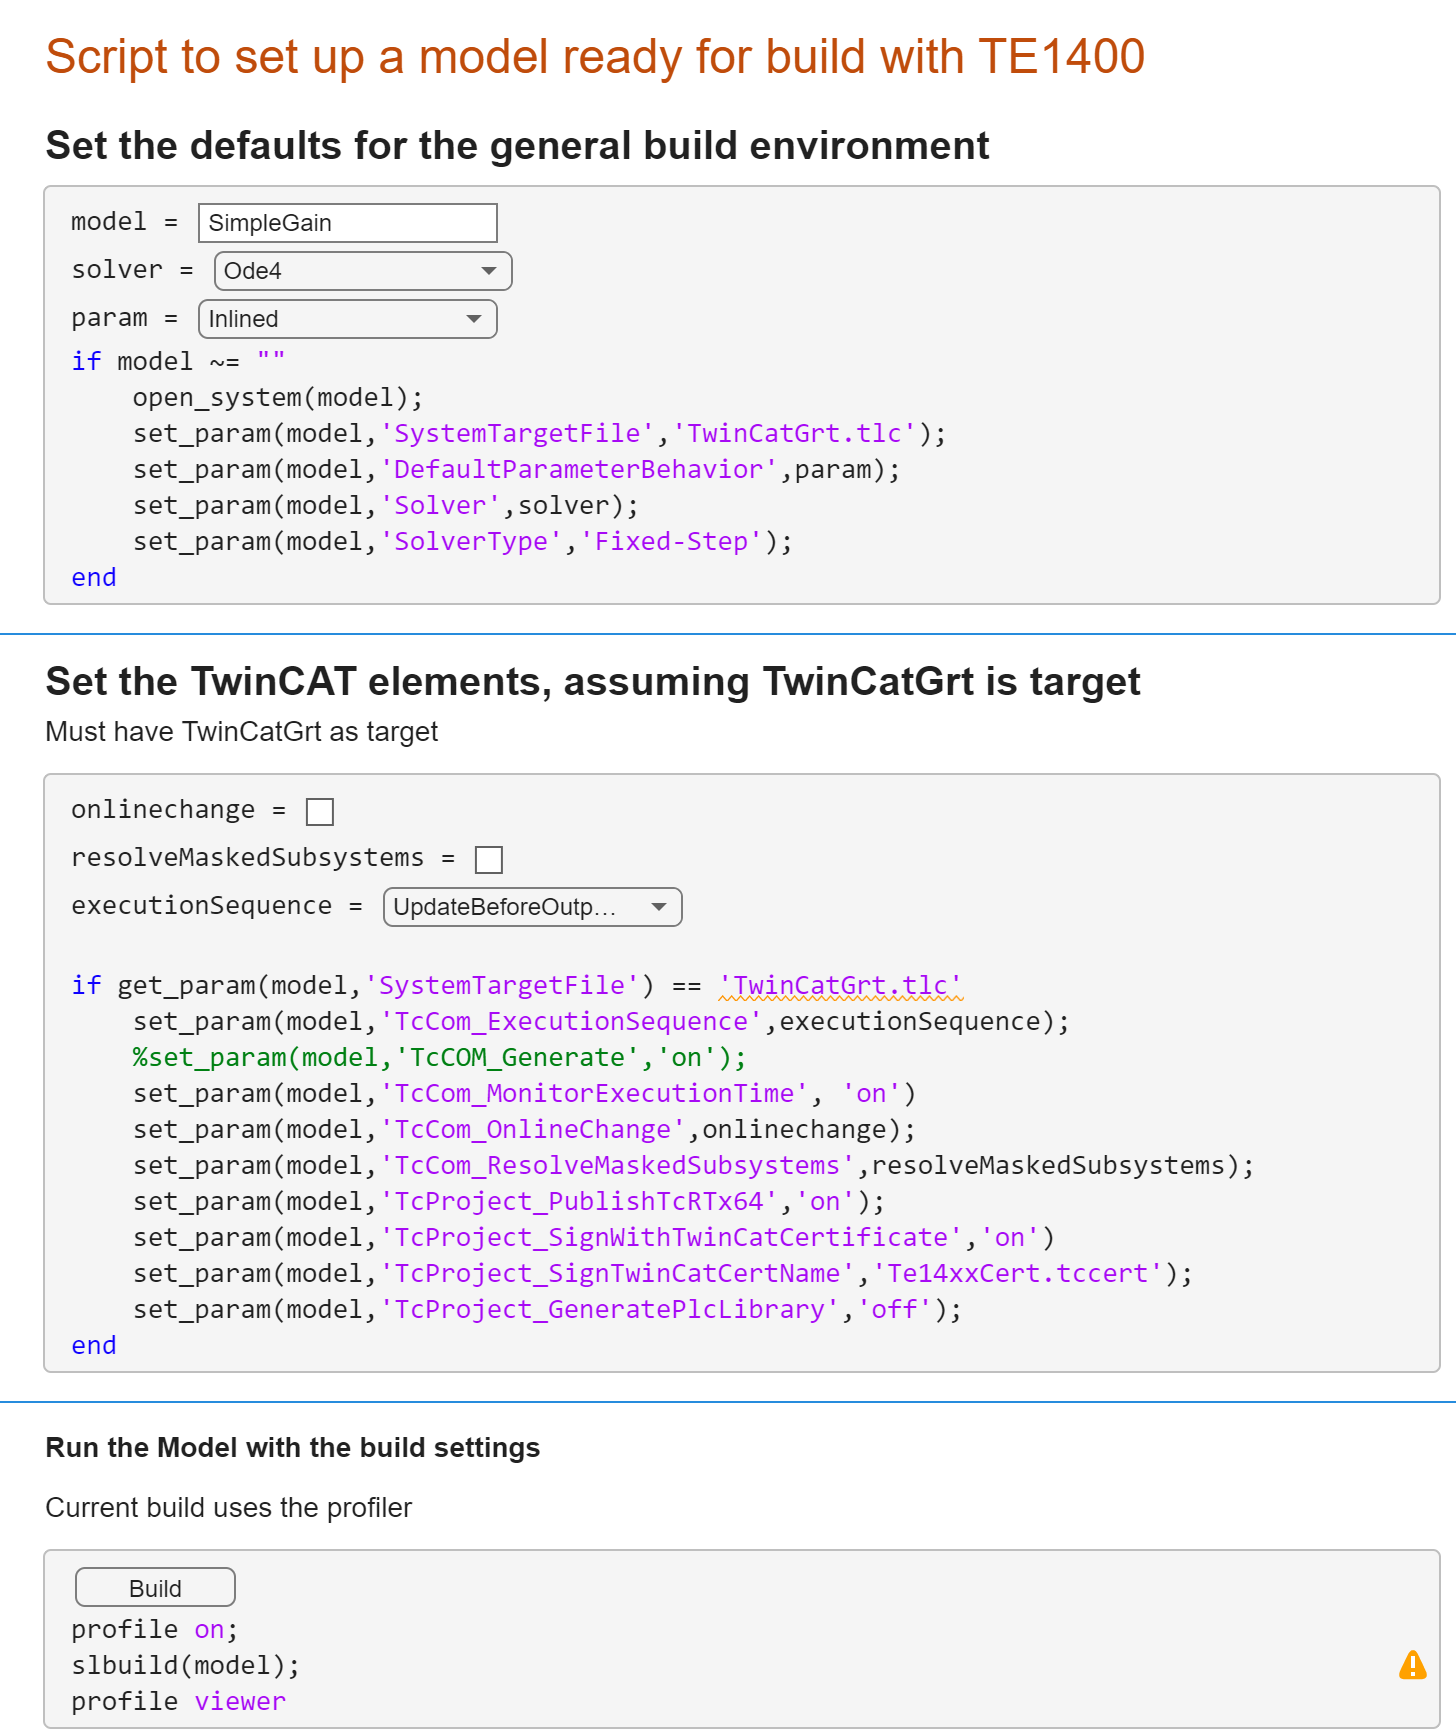
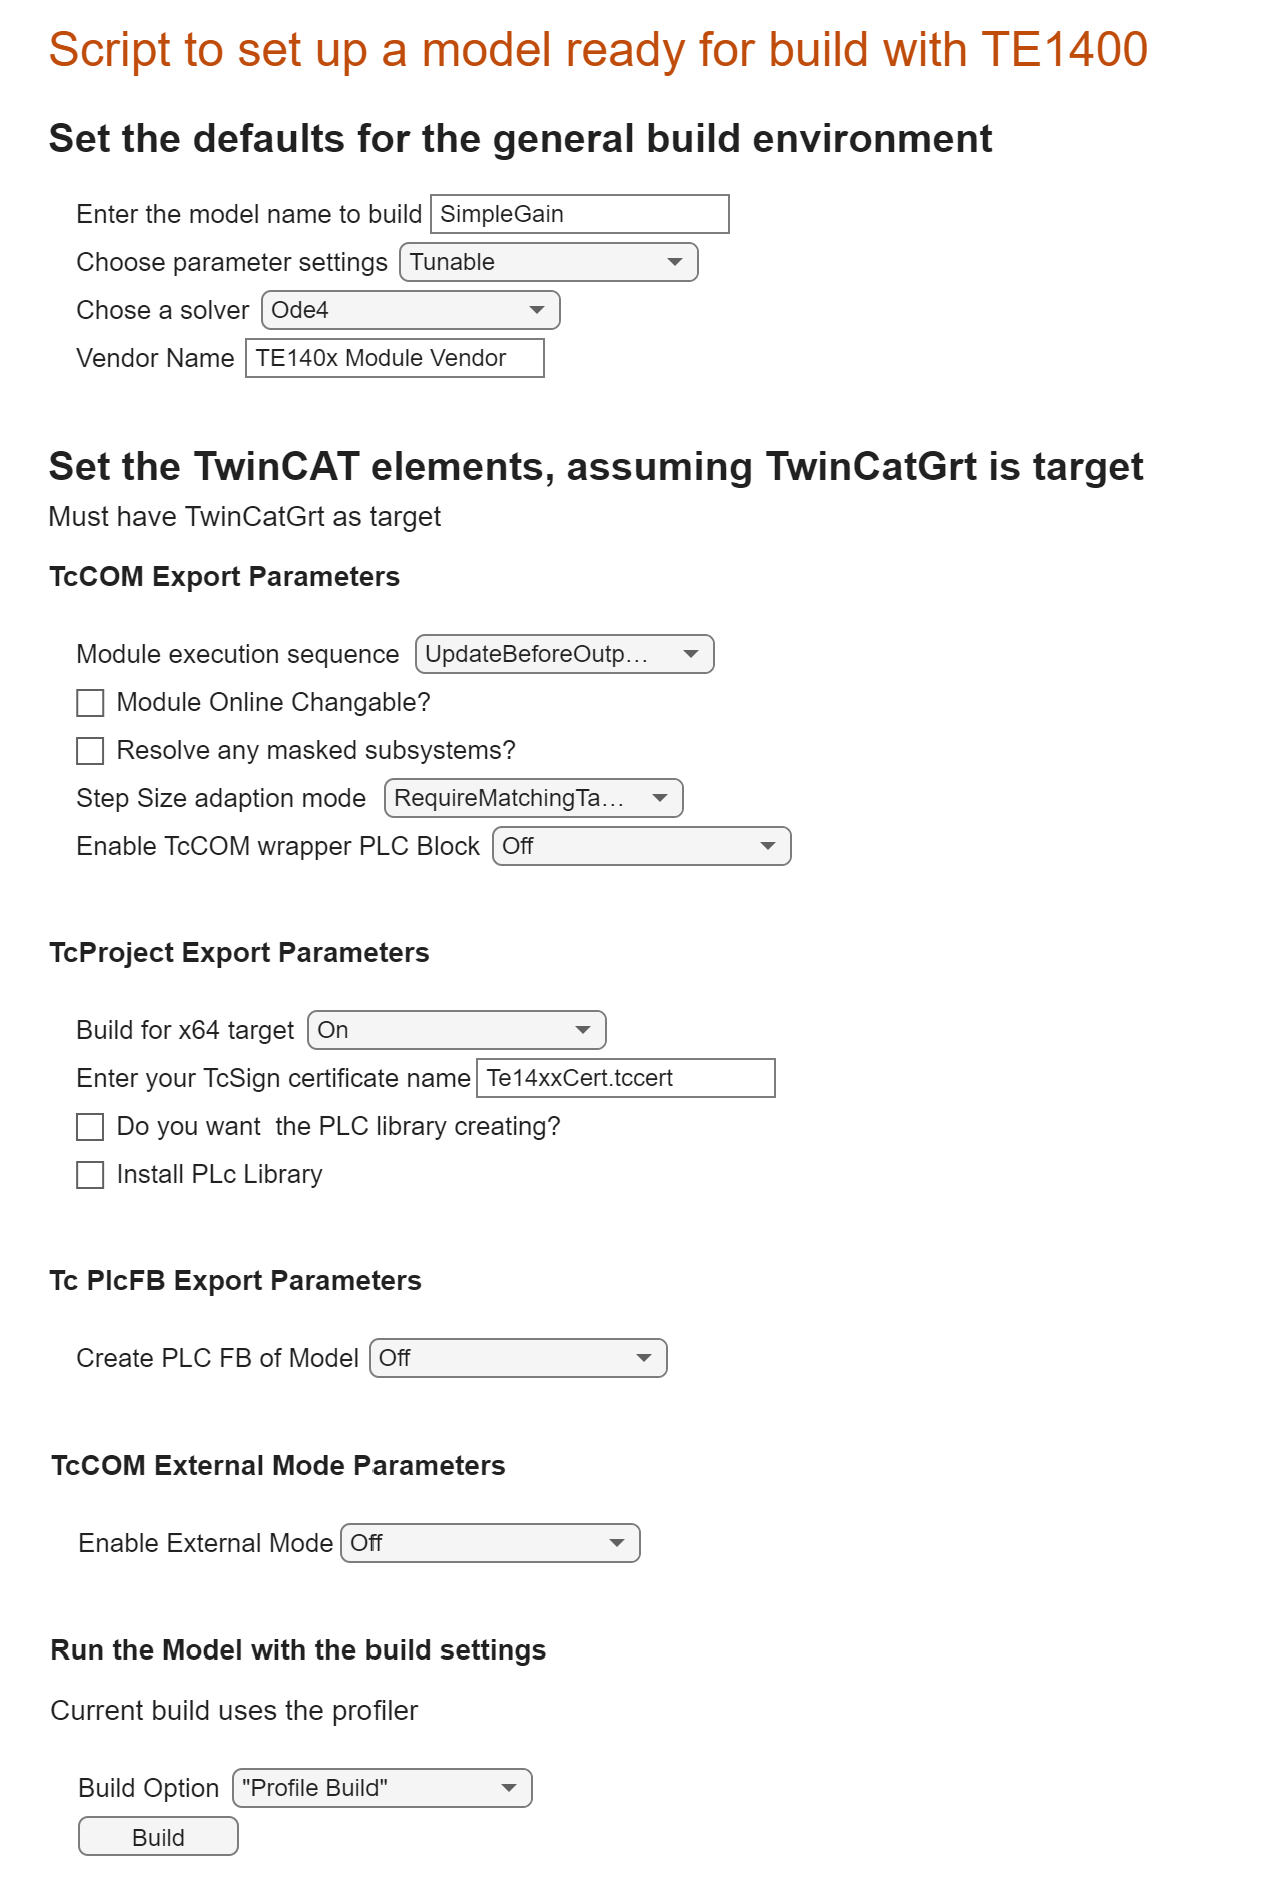
updated image in ReadMe, removed output data from mlx file

diff --git a/README.md b/README.md
@@ -4,7 +4,7 @@
 
 It is possible to parameterise the build of a Simulink module using the Simulink coder tool options menus. This can take a lot of time and requires effort, especially if you are building a number of models or changing the parameters regularly. This live script semi automates the process.
 
-![Screenshot](HideCode.png)
+![Screenshot](LiveScript.png)
 
 This script allows you to parameterise a given model selectable in the first text box tool.
 
